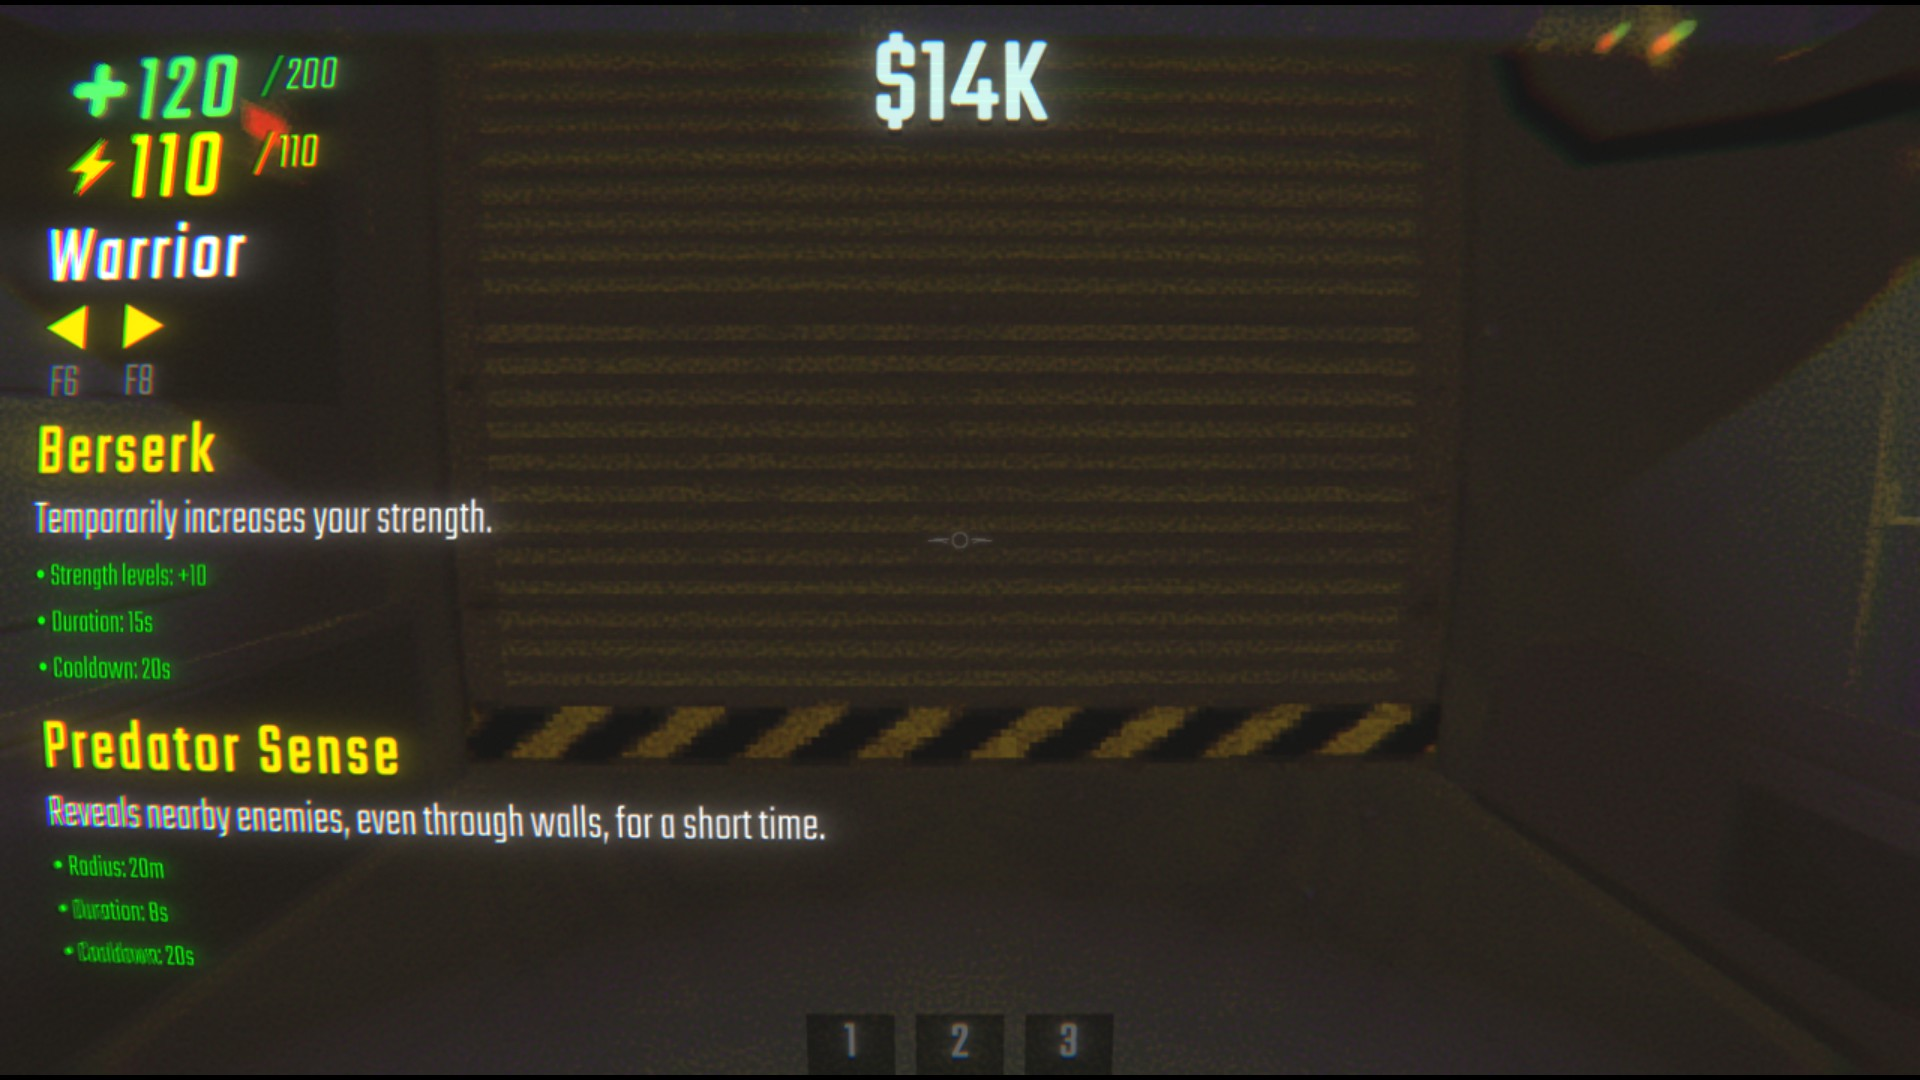
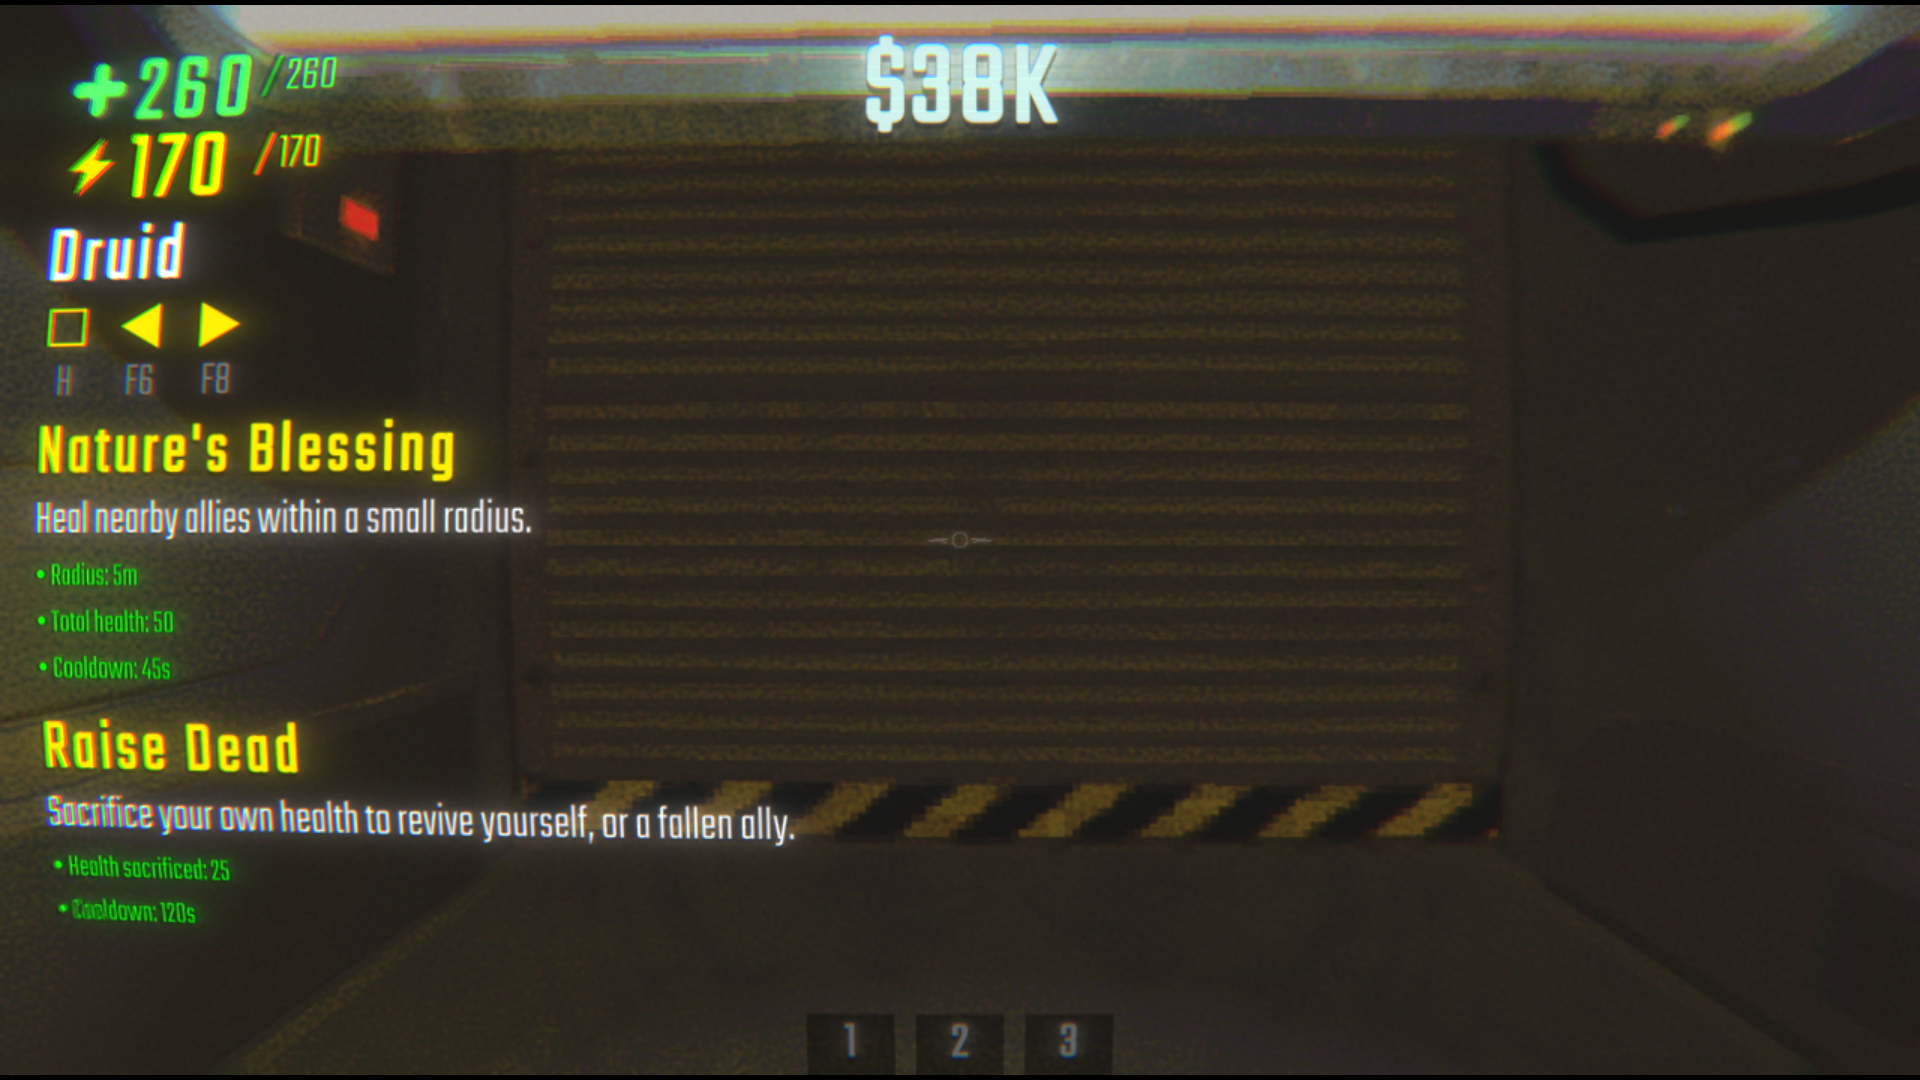
Add new key to hide ui

diff --git a/UIs/ClassUI.cs b/UIs/ClassUI.cs
@@ -11,6 +11,8 @@ internal static class ClassUI
 {
     public static GameObject classUI;
     private static TextMeshProUGUI classText;
+    private static TextMeshProUGUI helpIcon;
+    private static TextMeshProUGUI helpKey;
     private static TextMeshProUGUI leftArrow;
     private static TextMeshProUGUI rightArrow;
     private static TextMeshProUGUI leftKey;
@@ -50,6 +52,8 @@ internal static class ClassUI
         if (SemiFunc.RunIsLobby() || SemiFunc.RunIsShop() || isAdmin)
         {
             classUI.SetActive(true);
+            helpIcon.gameObject.SetActive(true);
+            helpKey.gameObject.SetActive(true);
             leftArrow.gameObject.SetActive(true);
             rightArrow.gameObject.SetActive(true);
             leftKey.gameObject.SetActive(true);
@@ -58,6 +62,8 @@ internal static class ClassUI
         else if (SemiFunc.RunIsLevel())
         {
             classUI.SetActive(true);
+            helpIcon.gameObject.SetActive(true);
+            helpKey.gameObject.SetActive(true);
             leftArrow.gameObject.SetActive(false);
             rightArrow.gameObject.SetActive(false);
             leftKey.gameObject.SetActive(false);
@@ -92,11 +98,13 @@ internal static class ClassUI
         rect.sizeDelta = new Vector2(260, 30);
         rect.anchoredPosition = new Vector2(0, -62);
 
-        leftArrow = CreateText("LeftArrow", "◀", new Vector2(-120, -25), 24, Color.yellow);
-        rightArrow = CreateText("RightArrow", "▶", new Vector2(-90, -25), 24, Color.yellow);
+        helpIcon = CreateText("HelpIcon", "◩", new Vector2(-120, -25), 24, Color.yellow);
+        leftArrow = CreateText("LeftArrow", "◀", new Vector2(-90, -25), 24, Color.yellow);
+        rightArrow = CreateText("RightArrow", "▶", new Vector2(-60, -25), 24, Color.yellow);
 
-        leftKey = CreateText("LeftKey", Plugin.PreviousClassKey.Value.ToString(), new Vector2(-120, -50), 18, Color.grey);
-        rightKey = CreateText("RightKey", Plugin.NextClassKey.Value.ToString(), new Vector2(-90, -50), 18, Color.grey);
+        helpKey = CreateText("HelpKey", Plugin.ToggleSkillUIKey.Value.ToString(), new Vector2(-120, -50), 18, Color.grey);
+        leftKey = CreateText("LeftKey", Plugin.PreviousClassKey.Value.ToString(), new Vector2(-90, -50), 18, Color.grey);
+        rightKey = CreateText("RightKey", Plugin.NextClassKey.Value.ToString(), new Vector2(-60, -50), 18, Color.grey);
 
         Refresh();
     }

diff --git a/Plugin.cs b/Plugin.cs
@@ -17,6 +17,7 @@ public class Plugin : BaseUnityPlugin
     public static ConfigEntry<KeyCode> NextClassKey;
     public static ConfigEntry<KeyCode> SkillKey;
     public static ConfigEntry<KeyCode> SkillKey2;
+    public static ConfigEntry<KeyCode> ToggleSkillUIKey;
 
     internal static ManualLogSource Log;
 
@@ -60,6 +61,13 @@ public class Plugin : BaseUnityPlugin
             "SkillKey2",
             KeyCode.G,
             "Key used to activate the secondary skill."
+        );
+
+        ToggleSkillUIKey = Config.Bind(
+            "Controls",
+            "ToggleSkillUIKey",
+            KeyCode.H,
+            "Key used to show or hide the skill UI."
         );
 
         Log.LogInfo($"{ModName} loaded...");

diff --git a/UIs/SkillUI.cs b/UIs/SkillUI.cs
@@ -21,6 +21,8 @@ internal static class SkillUI
     private static TextMeshProUGUI levelCooldown2;
     private static TextMeshProUGUI levelKey2;
 
+    private static bool visible = true;
+
     private static void Postfix()
     {
         if (!Plugin.EnableMod.Value)
@@ -35,7 +37,10 @@ internal static class SkillUI
         if (skillUI == null && skillUI2 == null)
             CreateUI();
 
-        if (Plugin.SelectedClass == PlayerClass.None)
+        if (Input.GetKeyDown(Plugin.ToggleSkillUIKey.Value))
+            visible = !visible;
+
+        if (!visible || Plugin.SelectedClass == PlayerClass.None)
         {
             skillUI.SetActive(false);
             skillUI2.SetActive(false);

diff --git a/wiki/FAQ.md b/wiki/FAQ.md
@@ -18,6 +18,13 @@ be holding an item, Raise Dead requires being downed or holding a dead
 ally's severed head). Check the in-game chat/log for a message explaining
 why the skill failed.
 
+### The skill HUD is too big/intrusive, can I hide it?
+
+Yes, press `H` (default, configurable via `ToggleSkillUIKey`) to show or
+hide the skill panels (name, description, properties, cooldown) at any
+time. Hiding the HUD is purely visual and doesn't affect cooldowns or
+skill usage.
+
 ### Can I disable the mod without uninstalling it?
 
 Yes, set `EnableMod` to `false` in the config file (see

diff --git a/wiki/Configuration.md b/wiki/Configuration.md
@@ -18,6 +18,7 @@ you launch the game with the mod installed.
 | `NextClassKey` | `F8` | Key used to select the next class. |
 | `SkillKey` | `F` | Key used to activate the primary skill. |
 | `SkillKey2` | `G` | Key used to activate the secondary skill. |
+| `ToggleSkillUIKey` | `H` | Key used to show or hide the skill UI. |
 
 Any of these can be changed to any `KeyCode` value by editing the config
 file, or through a config manager mod (e.g. BepInEx Configuration Manager)

diff --git a/README.md b/README.md
@@ -33,6 +33,7 @@ Full effect descriptions, cooldowns, radius and durations for every skill are on
 - `G`  -> Use secondary skill
 - `F6` -> Previous class
 - `F8` -> Next class
+- `H`  -> Show/hide the skill UI
 
 These keybinds, as well as enabling/disabling the mod, can be changed in the BepInEx configuration file.
 
